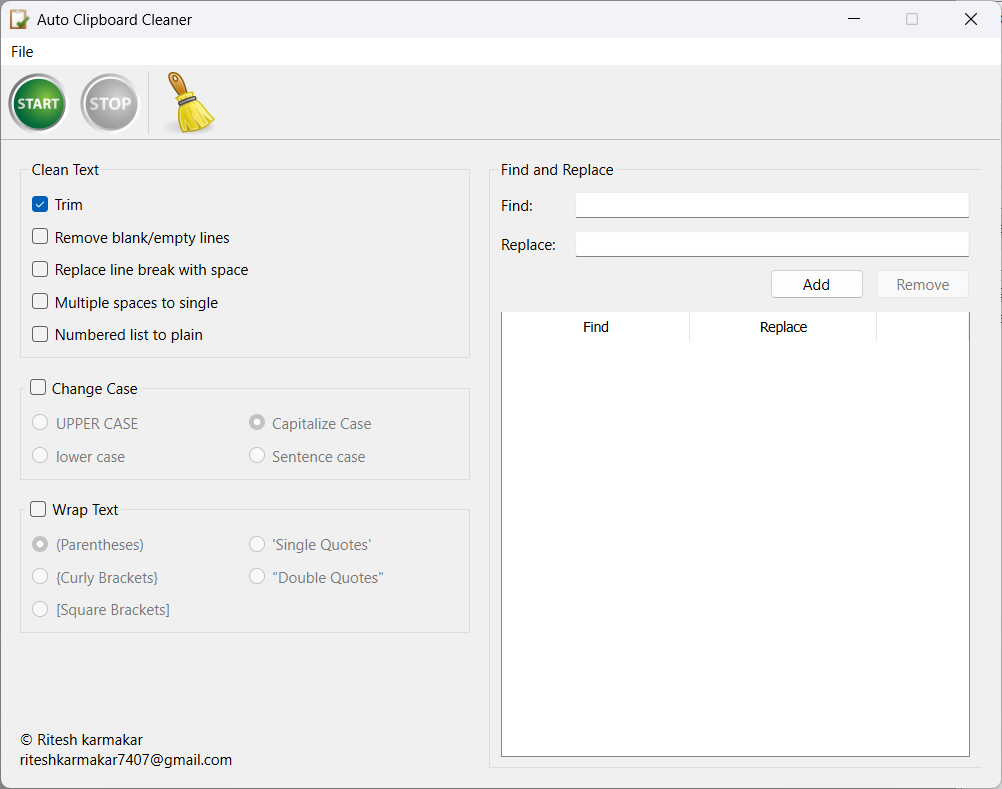
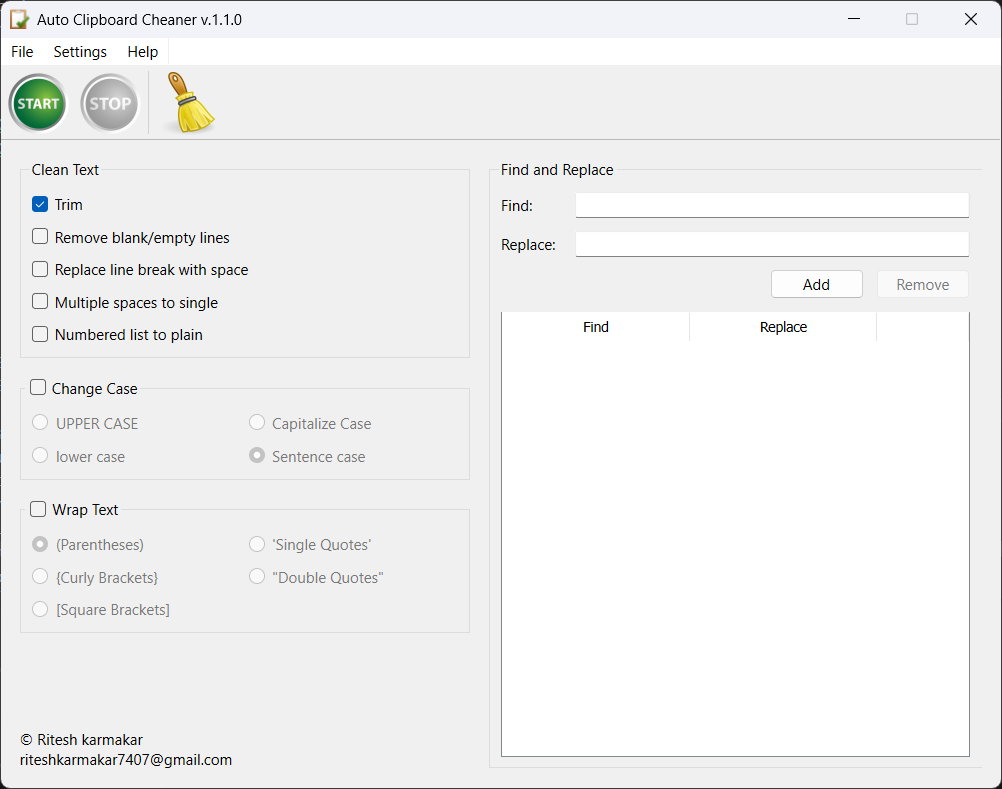
Implement "Check for Updates" feature

diff --git a/src/main.py b/src/main.py
@@ -1,7 +1,10 @@
-import sys, pyperclip, json
+import sys, pyperclip, json, requests
 from typing import TypedDict
 from pathlib import Path
-from PyQt6.QtWidgets import QApplication, QMainWindow, QWidget, QCheckBox, QLineEdit, QTableWidgetItem, QFileDialog
+from PyQt6.QtWidgets import (
+    QApplication, QMainWindow, QWidget, QCheckBox, QLineEdit,
+    QTableWidgetItem, QFileDialog, QMessageBox
+)
 from PyQt6.QtGui import QDesktopServices
 from PyQt6.QtCore import QTimer, QUrl
 
@@ -9,9 +12,12 @@ from ui.main_window import Ui_MainWindow
 from assets import resources_rc
 from text_cleaner import TextCleaner
 
+
 CURRENT_SETTINGS_PATH = Path("settings/current_settings.json")
+CURRENT_VERSION = "v1.1.0"
 
 class Settings(TypedDict):
+    update_check_at_startup: bool
     trim: bool
     remove_blank_lines: bool
     linebreak_to_space: bool
@@ -39,10 +45,18 @@ class MainWindow(QMainWindow, Ui_MainWindow):
         self.debounce_timer = QTimer()
         self.debounce_timer.setSingleShot(True)
         self.ignore_next_clipboard_signal = False
+        self.init_ui()
         self.init_signals_slots()
+        self.show()
+        if self.action_update_check_at_startup.isChecked():
+            self.check_for_updates()
+
+    def init_ui(self) -> None:
+        self.setWindowTitle(f"Auto Clipboard Cheaner {CURRENT_VERSION}")
         self.load_settings()
 
     def init_signals_slots(self) -> None:
+        self.action_check_for_updates.triggered.connect(lambda: self.check_for_updates())
         self.action_load.triggered.connect(self.load_settings)
         self.action_export.triggered.connect(self.export_settings)
         self.action_documentation.triggered.connect(
@@ -60,6 +74,58 @@ class MainWindow(QMainWindow, Ui_MainWindow):
             else self.btn_remove.setDisabled(True)
         )
         self.debounce_timer.timeout.connect(self.process_clipboard)
+
+    def check_for_updates(self) -> None:
+        url = f"https://api.github.com/repos/riteshkarmakar/auto-clipboard-cleaner/releases/latest"
+
+        try:
+            response = None
+            response = requests.get(url)
+            response.raise_for_status()
+        except:
+            if self.sender() != self.action_check_for_updates:
+                return
+            msg = QMessageBox(self)
+            msg.setIcon(QMessageBox.Icon.Warning)
+            msg.setWindowTitle("Update Check Failed!")
+            msg.setText("Unable to fetch update information.")
+            msg.setInformativeText("Please check your internet connection or try again later.")
+            msg.setDetailedText(f"Error code: {response.status_code if response != None else "None"}\nURL: {url}")
+            msg.setStandardButtons(QMessageBox.StandardButton.Ok)
+            msg.exec()
+            return
+        
+        release_data = response.json()
+        latest_version = release_data['tag_name']
+        release_page_url = release_data['html_url']
+        download_url = release_data['assets'][0]['browser_download_url']
+        
+        if latest_version > CURRENT_VERSION:
+            msg = QMessageBox()
+            msg.setIcon(QMessageBox.Icon.Information)
+            msg.setWindowTitle("Update Available")
+            msg.setText(
+                f"<h3>A New Version ({latest_version}) is Available!</h3>"
+                f"To learn more about what's new, click 'View Details' below.</p>"
+            )
+            msg.setInformativeText("Would you like to update now?")
+            msg.setStandardButtons(
+                QMessageBox.StandardButton.Yes | QMessageBox.StandardButton.Help | QMessageBox.StandardButton.Cancel
+            )
+            msg.button(QMessageBox.StandardButton.Help).setText("View Details")
+            
+            # Open the download URL or View Details
+            result = msg.exec()
+            if result == QMessageBox.StandardButton.Yes:
+                QDesktopServices.openUrl(QUrl(download_url))
+            elif result == QMessageBox.StandardButton.Help:
+                QDesktopServices.openUrl(QUrl(release_page_url))
+
+        else:
+            if self.sender() == self.action_check_for_updates:
+                QMessageBox.information(
+                    self, "No Update Available", f"You are currently using the latest version ({CURRENT_VERSION})"
+                )
 
     def reset(self) -> None:
         for check_box in self.centralwidget.findChildren(QCheckBox):
@@ -97,6 +163,7 @@ class MainWindow(QMainWindow, Ui_MainWindow):
             find_and_replace.append([find_text, replace_with])
 
         settings: Settings = {
+            "update_check_at_startup": self.action_update_check_at_startup.isChecked(),
             "trim": self.checkBox_trim.isChecked(),
             "remove_blank_lines": self.checkBox_remove_blank_lines.isChecked(),
             "linebreak_to_space": self.checkBox_linebreak_to_space.isChecked(),
@@ -136,6 +203,7 @@ class MainWindow(QMainWindow, Ui_MainWindow):
             data = file.read()
         settings: Settings = json.loads(data)
 
+        self.action_update_check_at_startup.setChecked(settings.get("update_check_at_startup", True))
         self.checkBox_trim.setChecked(settings.get("trim", False))
         self.checkBox_remove_blank_lines.setChecked(settings.get("remove_blank_lines", False))
         self.checkBox_linebreak_to_space.setChecked(settings.get("linebreak_to_space", False))
@@ -243,5 +311,4 @@ if __name__ == "__main__":
     app = QApplication(sys.argv)
     app.setStyle("WindowsVista")
     window = MainWindow()
-    window.show()
     sys.exit(app.exec())

diff --git a/src/ui/main_window.py b/src/ui/main_window.py
@@ -15,6 +15,7 @@ class Ui_MainWindow(object):
         MainWindow.resize(800, 600)
         MainWindow.setMinimumSize(QtCore.QSize(600, 0))
         MainWindow.setMaximumSize(QtCore.QSize(1000, 800))
+        MainWindow.setWindowTitle("")
         icon = QtGui.QIcon()
         icon.addPixmap(QtGui.QPixmap(":/assets/icons/clipboard.ico"), QtGui.QIcon.Mode.Normal, QtGui.QIcon.State.Off)
         MainWindow.setWindowIcon(icon)
@@ -185,6 +186,8 @@ class Ui_MainWindow(object):
         self.menuFile.setObjectName("menuFile")
         self.menuHelp = QtWidgets.QMenu(parent=self.menuBar)
         self.menuHelp.setObjectName("menuHelp")
+        self.menuSettings = QtWidgets.QMenu(parent=self.menuBar)
+        self.menuSettings.setObjectName("menuSettings")
         MainWindow.setMenuBar(self.menuBar)
         self.action_start = QtGui.QAction(parent=MainWindow)
         icon1 = QtGui.QIcon()
@@ -209,6 +212,12 @@ class Ui_MainWindow(object):
         self.action_load.setObjectName("action_load")
         self.action_documentation = QtGui.QAction(parent=MainWindow)
         self.action_documentation.setObjectName("action_documentation")
+        self.action_check_for_updates = QtGui.QAction(parent=MainWindow)
+        self.action_check_for_updates.setObjectName("action_check_for_updates")
+        self.action_update_check_at_startup = QtGui.QAction(parent=MainWindow)
+        self.action_update_check_at_startup.setCheckable(True)
+        self.action_update_check_at_startup.setChecked(True)
+        self.action_update_check_at_startup.setObjectName("action_update_check_at_startup")
         self.toolBar.addAction(self.action_start)
         self.toolBar.addAction(self.action_stop)
         self.toolBar.addSeparator()
@@ -216,7 +225,10 @@ class Ui_MainWindow(object):
         self.menuFile.addAction(self.action_load)
         self.menuFile.addAction(self.action_export)
         self.menuHelp.addAction(self.action_documentation)
+        self.menuHelp.addAction(self.action_check_for_updates)
+        self.menuSettings.addAction(self.action_update_check_at_startup)
         self.menuBar.addAction(self.menuFile.menuAction())
+        self.menuBar.addAction(self.menuSettings.menuAction())
         self.menuBar.addAction(self.menuHelp.menuAction())
 
         self.retranslateUi(MainWindow)
@@ -224,7 +236,6 @@ class Ui_MainWindow(object):
 
     def retranslateUi(self, MainWindow):
         _translate = QtCore.QCoreApplication.translate
-        MainWindow.setWindowTitle(_translate("MainWindow", "Auto Clipboard Cleaner v1.0.0"))
         self.groupBox_clean_text.setTitle(_translate("MainWindow", "Clean Text"))
         self.checkBox_trim.setText(_translate("MainWindow", "Trim"))
         self.checkBox_remove_blank_lines.setText(_translate("MainWindow", "Remove blank/empty lines"))
@@ -256,14 +267,17 @@ class Ui_MainWindow(object):
         self.toolBar.setWindowTitle(_translate("MainWindow", "toolBar"))
         self.menuFile.setTitle(_translate("MainWindow", "File"))
         self.menuHelp.setTitle(_translate("MainWindow", "Help"))
+        self.menuSettings.setTitle(_translate("MainWindow", "Settings"))
         self.action_start.setText(_translate("MainWindow", "Start"))
         self.action_start.setToolTip(_translate("MainWindow", "Start"))
         self.action_stop.setText(_translate("MainWindow", "stop"))
         self.action_stop.setToolTip(_translate("MainWindow", "Stop"))
         self.action_reset.setText(_translate("MainWindow", "Reset"))
-        self.action_export.setText(_translate("MainWindow", "Export Settings"))
-        self.action_load.setText(_translate("MainWindow", "Load Settings"))
+        self.action_export.setText(_translate("MainWindow", "Export Settings..."))
+        self.action_load.setText(_translate("MainWindow", "Load Settings..."))
         self.action_documentation.setText(_translate("MainWindow", "Read Documentation"))
+        self.action_check_for_updates.setText(_translate("MainWindow", "Check for Updates..."))
+        self.action_update_check_at_startup.setText(_translate("MainWindow", "Check for Updates at Startup"))
 
 
 if __name__ == "__main__":
